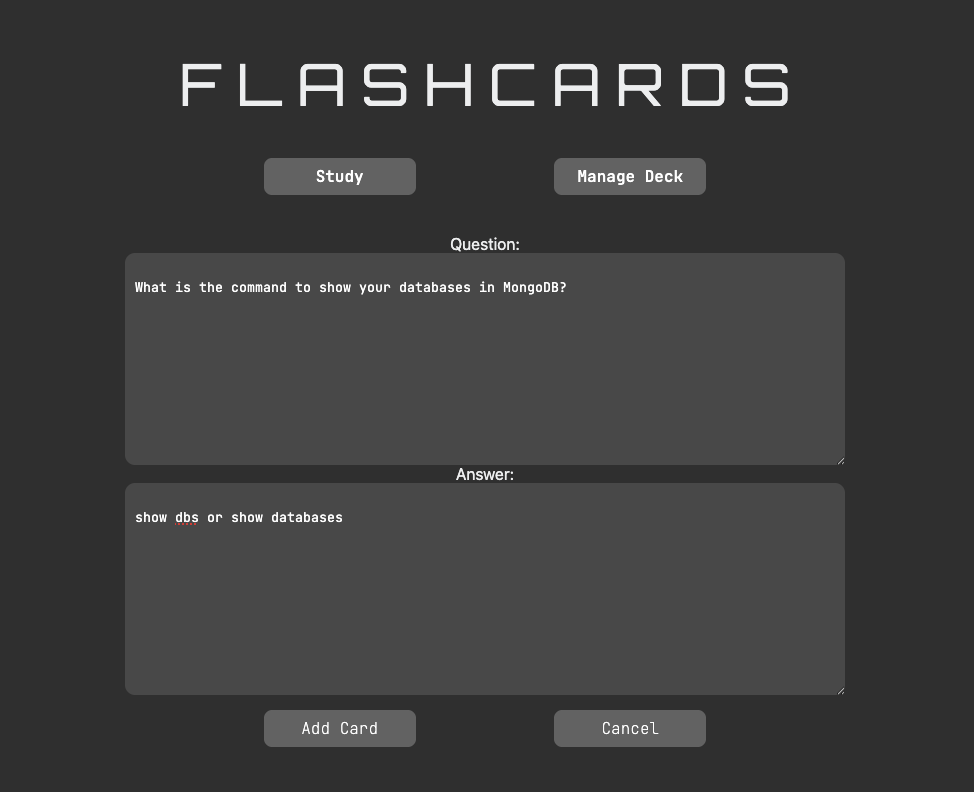
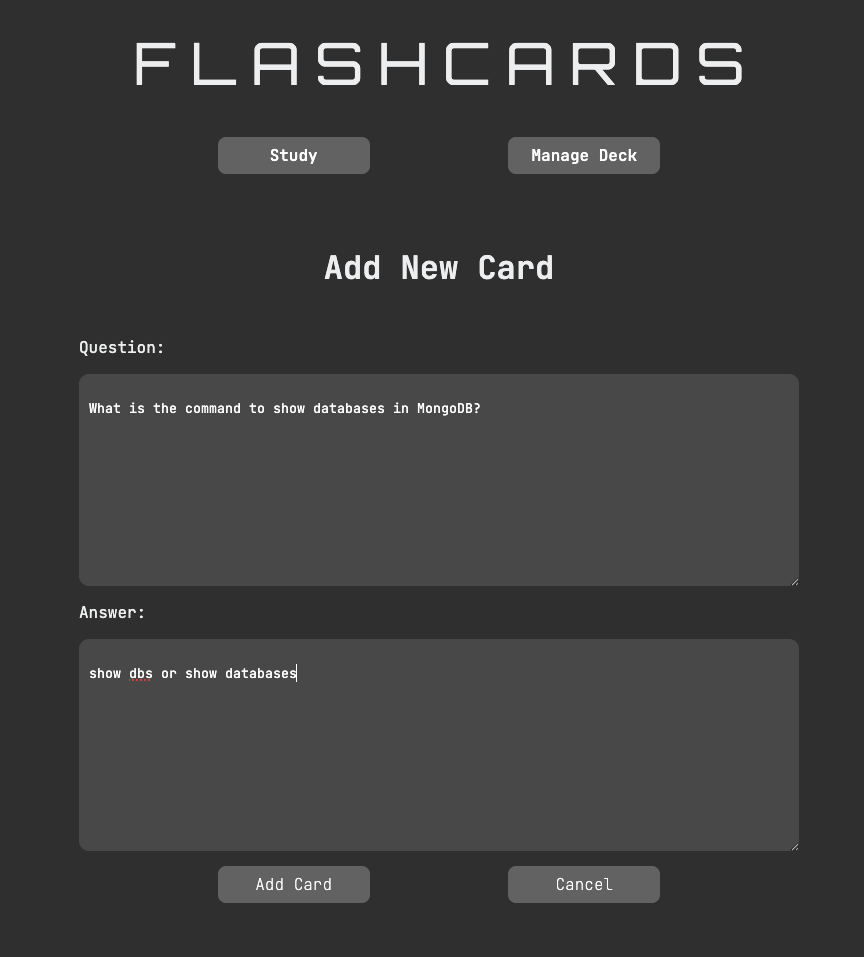
Updated readme and screenshots

Changed region(s): [[0.0938, 0.0303, 0.9375, 0.9697], [0.3125, 0.4242, 0.5625, 0.4545], [0.1875, 0.4242, 0.2812, 0.4545]]

diff --git a/webpageReact/flashcardsreact/src/Components/DeckEdit.jsx b/webpageReact/flashcardsreact/src/Components/DeckEdit.jsx
@@ -18,6 +18,7 @@ export default function DeckEdit({reloadChange, cards}) {
         console.log("deleteFunc");
         const response = await Axios.delete(`http://localhost:8080/flashcards/${cardSelected.cardID}`);
         console.log(response);
+        setSelectedItem(false)
         reloadChange();
         savedAnimation();
     }
@@ -123,7 +124,8 @@ export default function DeckEdit({reloadChange, cards}) {
 
     return (
         <>
-            {!editingCard && !addingCard && (<><select onChange={handleChange} size={20} name="cardlist" className="deckList">
+            {!editingCard && !addingCard && (<> <p className="titleManage">Manage Deck</p>
+                <select onChange={handleChange} size={20} name="cardlist" className="deckList">
                 {cards.map(card=><option className="jbFont" key={card.cardID} value={card.cardID}>{card.question}</option>)}</select>
                 <div className="controls">
                 <ControlButton func={handleDelete} controlText={"Delete Card"} disabled={!selectedItem}/>
@@ -131,9 +133,11 @@ export default function DeckEdit({reloadChange, cards}) {
                     <ControlButton func={handleEditCard} controlText={"Edit Card"} disabled={!selectedItem}/>
             </div></>)}
             {(addingCard || editingCard) && (<><div className="addEditContent">
-                    Question:
+                    {addingCard ? <p className="titleManage">Add New Card</p> :
+                        <p className="titleManage">Edit Card</p>}
+                    <p className="questionAnswerP">Question:</p>
                     <textarea value ={editingCard ? editCard.question : newCard.question} className={"questionBox"} onChange={(e)=>{handleBoxChange(e)}} rows={9}/>
-                    Answer:
+                    <p className="questionAnswerP">Answer:</p>
                     <textarea value ={editingCard ? editCard.answer : newCard.answer} className={"answerBox"} onChange={(e)=>{handleBoxChange(e)}} rows={9}/>
                 </div>
                     <div className="controls">

diff --git a/webpageReact/flashcardsreact/src/Components/ComponentStyles.css b/webpageReact/flashcardsreact/src/Components/ComponentStyles.css
@@ -98,6 +98,18 @@ textarea:focus{
     color:white;
 }
 
+.questionAnswerP {
+    font-family: "JetBrains Mono", sans-serif;
+    align-self: flex-start;
+}
+
+.titleManage {
+    font-family: "JetBrains Mono", sans-serif;
+    font-size: 32px;
+    font-weight: 600;
+    margin: none;
+}
+
 .addEditContent {
     margin-top: 40px;
     display: flex;

diff --git a/README.md b/README.md
@@ -1,5 +1,5 @@
 # FlashCards-SPA
-last updated: March 25th, 2025
+last updated: March 29th, 2025
 ## About
 
 - This is a web app version of [FlashCards](https://github.com/knangcas/FlashCards)
@@ -28,30 +28,40 @@ From here, you can navigate to index.html in the webpage directory.
 
  ### Screenshots
 
-![Screenshot1](https://github.com/knangcas/SpringbootFlashcards/blob/main/screenshots/ss7.png?raw=true)
+- Updated March 29th, 2025
+
+![Screenshot1](https://github.com/knangcas/SpringbootFlashcards/blob/main/screenshots/ss8.png?raw=true)
 
 - Restart : returns to the initial state of the deck.
 - Next : Users click this when they know the answer.
 - Skip : Users click this when they want to skip the answer and come back to it later.
 
-![Screenshot2](https://github.com/knangcas/SpringbootFlashcards/blob/main/screenshots/ss2.png?raw=true)
+![Screenshot7](https://github.com/knangcas/SpringbootFlashcards/blob/main/screenshots/ss14.png?raw=true)
 
-- Study page after reaching the end and skipping 2 cards. User has an option of loading the skipped cards or restarting. 
+- Page view after user reaches the end of the deck without skipping a card.
 
-![Screenshot3](https://github.com/knangcas/SpringbootFlashcards/blob/main/screenshots/ss3.png?raw=true)
+![Screenshot8](https://github.com/knangcas/SpringbootFlashcards/blob/main/screenshots/ss15.png?raw=true)
 
-- Manage deck page. User can add new cards, delete cards, or edit cards. In here, I choose to delete the selected card.
+- Page view after user reaches the end of the deck when a card is skipped.
 
-![Screenshot4](https://github.com/knangcas/SpringbootFlashcards/blob/main/screenshots/ss4.png?raw=true)
+![Screenshot2](https://github.com/knangcas/SpringbootFlashcards/blob/main/screenshots/ss9.png?raw=true)
 
-- User editing a card. Save button will be active once a change has been made to either input field. 
+- Manage deck page with the current cards in the deck in a list. Delete and Edit card are disabled because there is no selection.
 
-![Screenshot5](https://github.com/knangcas/SpringbootFlashcards/blob/main/screenshots/ss5.png?raw=true)
+![Screenshot3](https://github.com/knangcas/SpringbootFlashcards/blob/main/screenshots/ss10.png?raw=true)
 
-- User adding a new card after deleting one (notice 4 cards and "Add Card" instead of "Save Card").
+- Adding a card page. Added input to both question and answer.
 
-![Screenshot6](https://github.com/knangcas/SpringbootFlashcards/blob/main/screenshots/ss6.png?raw=true)
+![Screenshot4](https://github.com/knangcas/SpringbootFlashcards/blob/main/screenshots/ss11.png?raw=true)
 
-- The new list after deleting adding the new card.
+- After the addition of a card. "Changes Saved!" pops up with animation after returning to deck list. 
+
+![Screenshot5](https://github.com/knangcas/SpringbootFlashcards/blob/main/screenshots/ss12.png?raw=true)
+
+- User selection of a card to edit.
+
+![Screenshot6](https://github.com/knangcas/SpringbootFlashcards/blob/main/screenshots/ss13.png?raw=true)
+
+- The current card to be edited. Save card is disabled because the user has not edited the fields.
 
 
